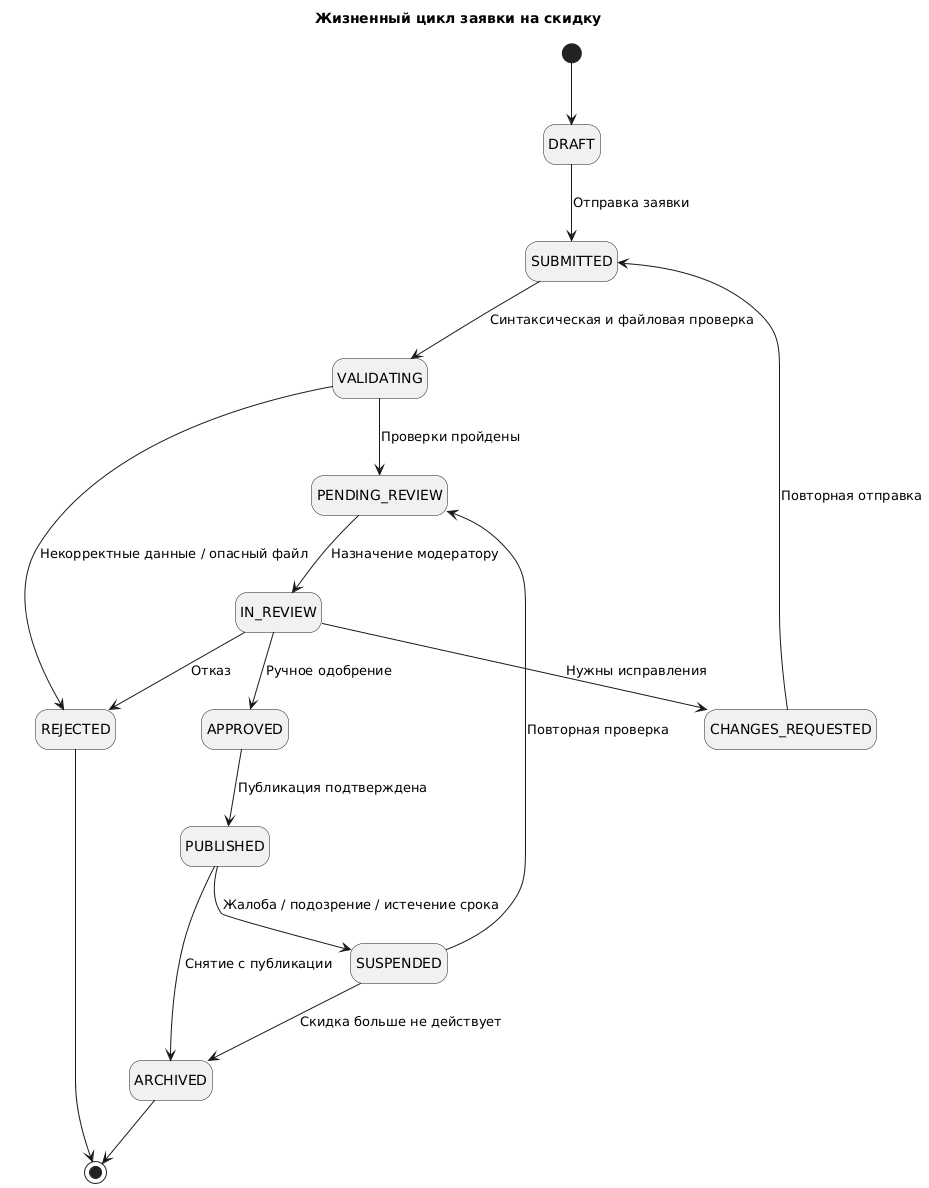
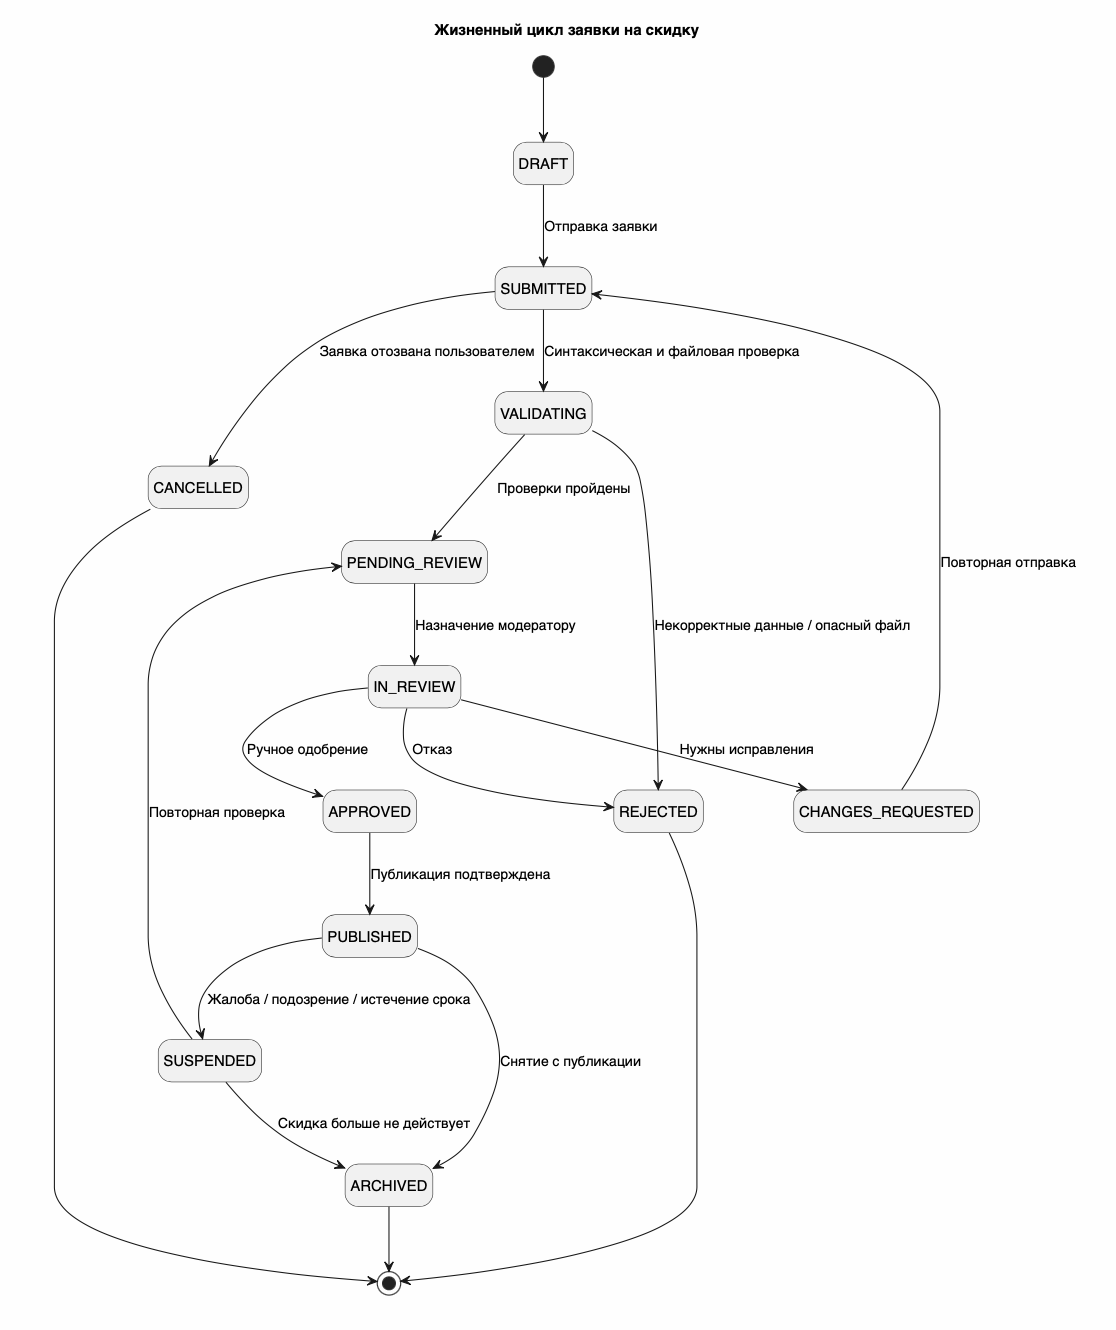
docs: updated moderation state diagram, added CANCELLED state

diff --git a/c4/C4.md b/c4/C4.md
@@ -199,32 +199,30 @@ Rel(catalog, kafka, "Событие публикации")
 Рекомендуемая модель состояния заявки:
 
 ![Moderation State Diagram](с44.png "Moderation State Diagram")
-<!-- @startuml Moderation_State_Machine
-title Жизненный цикл заявки на скидку
-hide empty description
 
-[*] --\> DRAFT
-DRAFT --\> SUBMITTED : Отправка заявки
-SUBMITTED --\> VALIDATING : Синтаксическая и файловая проверка
-VALIDATING --\> REJECTED : Некорректные данные / опасный файл
-VALIDATING --\> PENDING_REVIEW : Проверки пройдены
-PENDING_REVIEW --\> IN_REVIEW : Назначение модератору
-IN_REVIEW --\> APPROVED : Ручное одобрение
-IN_REVIEW --\> CHANGES_REQUESTED : Нужны исправления
-IN_REVIEW --\> REJECTED : Отказ
-CHANGES_REQUESTED --\> SUBMITTED : Повторная отправка
-APPROVED --\> PUBLISHED : Публикация подтверждена
-PUBLISHED --\> SUSPENDED : Жалоба / подозрение / истечение срока
-SUSPENDED --\> PENDING_REVIEW : Повторная проверка
-SUSPENDED --\> ARCHIVED : Скидка больше не действует
-PUBLISHED --\> ARCHIVED : Снятие с публикации
-REJECTED --\> [*]
-ARCHIVED --\> [*]
-
-@enduml 
--->
-
-
+<!-- hide empty description -->
+<!---->
+<!-- [*] --/> DRAFT -->
+<!-- DRAFT --/> SUBMITTED : Отправка заявки -->
+<!-- SUBMITTED --/> VALIDATING : Синтаксическая и файловая проверка -->
+<!-- SUBMITTED --/> CANCELLED : Заявка отозвана пользователем -->
+<!-- VALIDATING --/> REJECTED : Некорректные данные / опасный файл -->
+<!-- VALIDATING --/> PENDING_REVIEW : Проверки пройдены -->
+<!-- PENDING_REVIEW --/> IN_REVIEW : Назначение модератору -->
+<!-- IN_REVIEW --/> APPROVED : Ручное одобрение -->
+<!-- IN_REVIEW --/> CHANGES_REQUESTED : Нужны исправления -->
+<!-- IN_REVIEW --/> REJECTED : Отказ -->
+<!-- CHANGES_REQUESTED --/> SUBMITTED : Повторная отправка -->
+<!-- APPROVED --/> PUBLISHED : Публикация подтверждена -->
+<!-- PUBLISHED --/> SUSPENDED : Жалоба / подозрение / истечение срока -->
+<!-- SUSPENDED --/> PENDING_REVIEW : Повторная проверка -->
+<!-- SUSPENDED --/> ARCHIVED : Скидка больше не действует -->
+<!-- PUBLISHED --/> ARCHIVED : Снятие с публикации -->
+<!-- REJECTED --/> [*] -->
+<!-- ARCHIVED --/> [*] -->
+<!-- CANCELLED --/> [*] -->
+<!-- @enduml -->
+<!---->
 Состояния `APPROVED` и `PUBLISHED` разделены намеренно: решение о модерации и фактическая доступность карточки пользователям — разные операции. Например, публикация может ожидать проверки файла или обработки события.
 
 ## C4 Level 2 — развёртывание в Kubernetes
